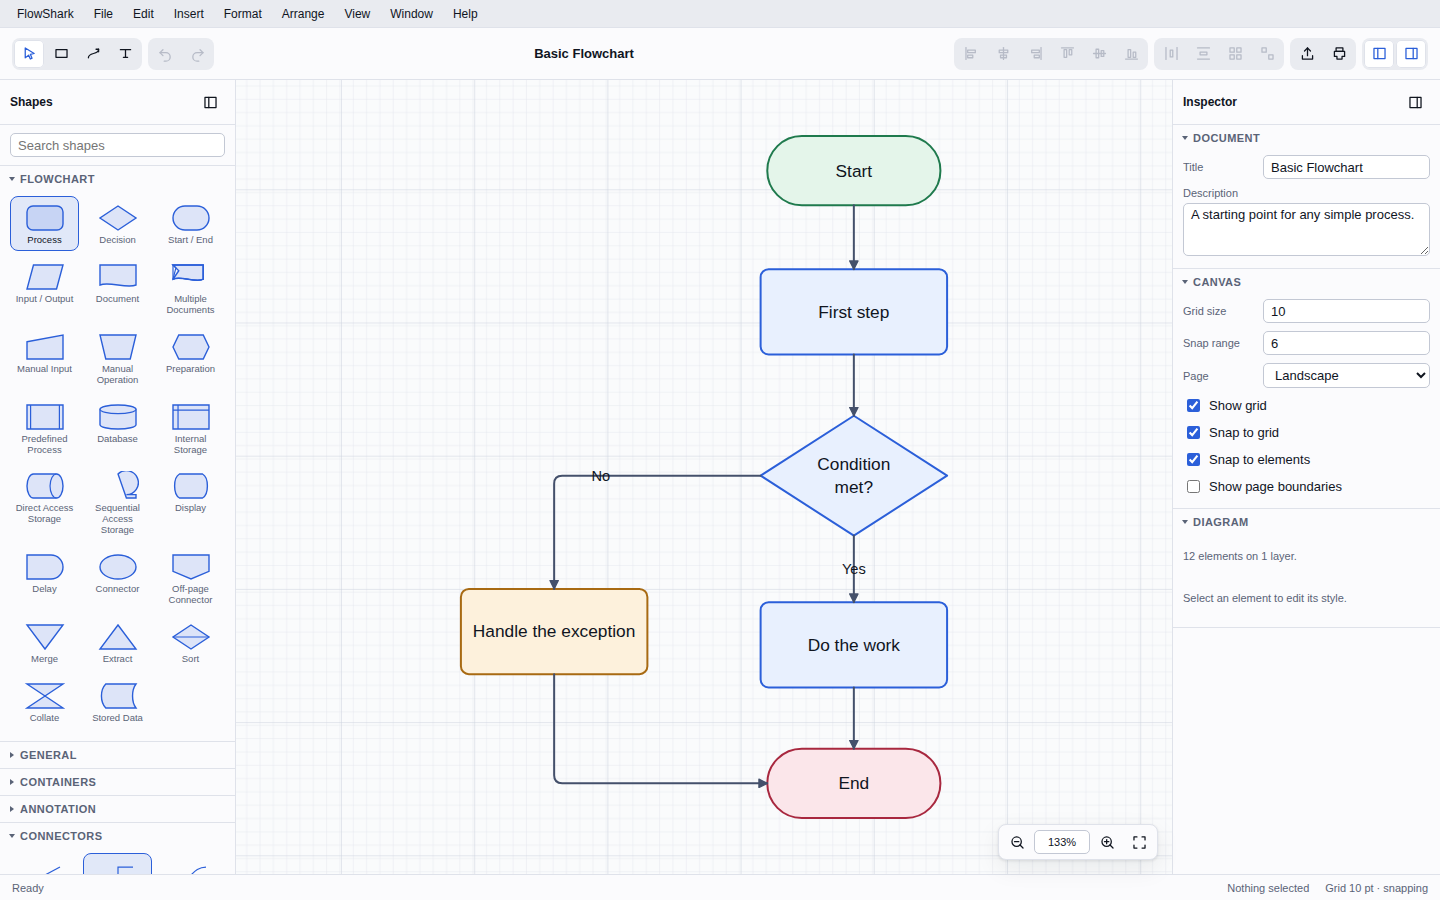
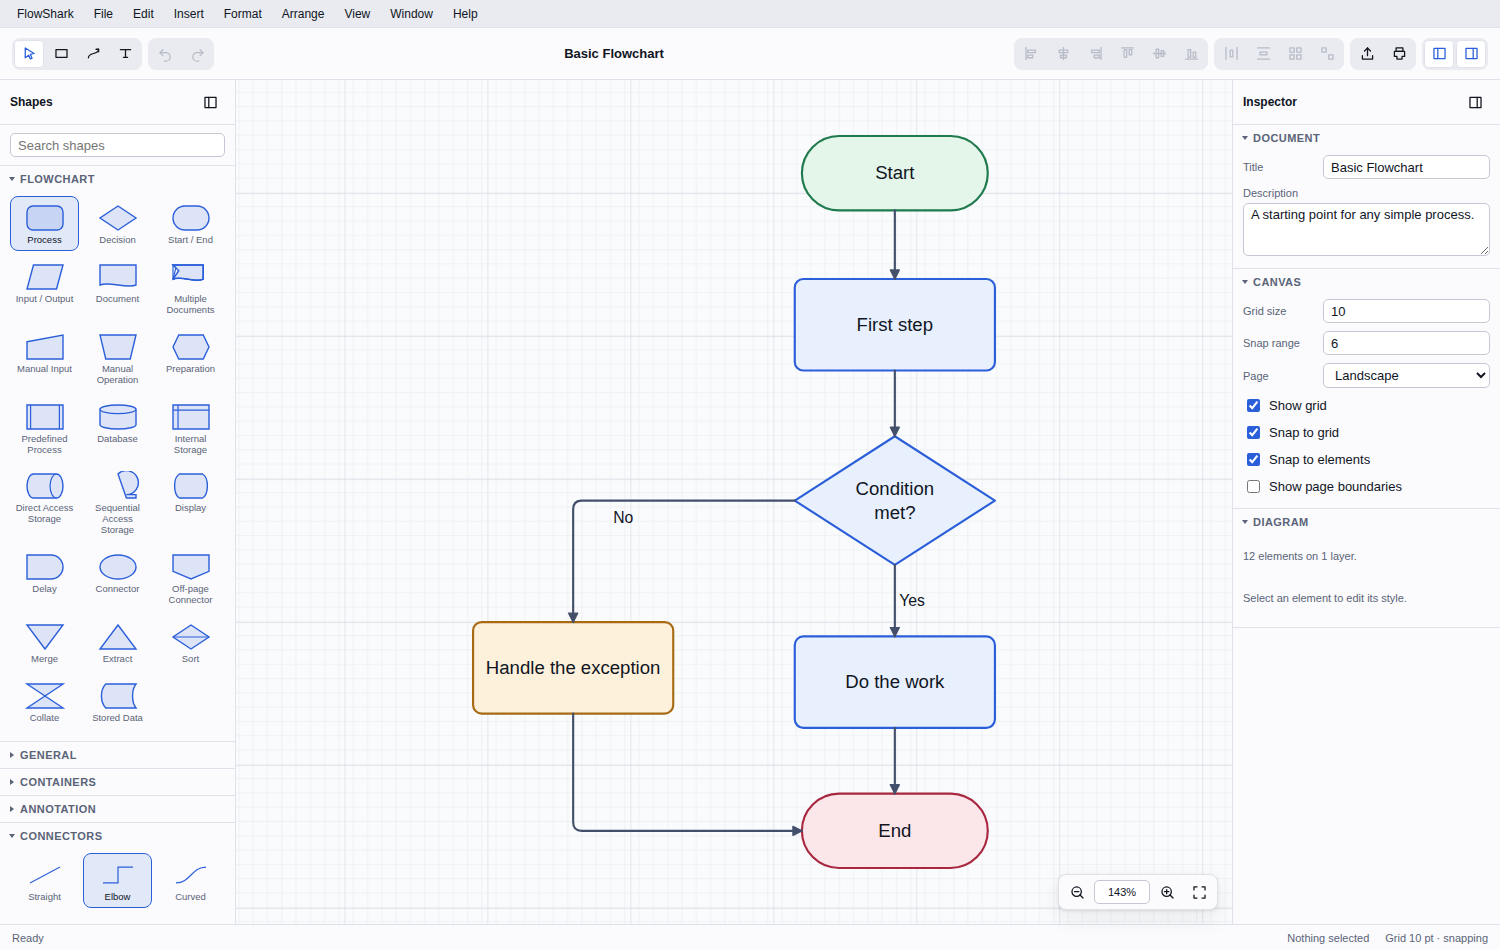
Improve label placement, selection export, and toast position
- Connector labels sit just off the line by default, the way a Yes or No
  beside a decision branch is conventionally drawn, instead of on top of it.
- Exporting a selection now includes any connector whose two ends are both
  selected, and sizes the region to fit it.
- Toasts no longer sit on top of the floating zoom controls.
- Records the fixed toolbar as a deliberate gap.

Claude-Session: https://claude.ai/code/session_01MKjp5WRWeMds73AAPFcLae

diff --git a/tests/export.test.ts b/tests/export.test.ts
@@ -1,7 +1,12 @@
 import { describe, expect, it } from 'vitest';
 import { getTemplate } from '../src/templates';
 import { buildStandaloneSvg } from '../src/io/export-svg';
-import { defaultExportOptions, exportRegion } from '../src/io/export';
+import {
+  defaultExportOptions,
+  expandExportSelection,
+  exportRegion,
+} from '../src/io/export';
+import { boundsOf } from '../src/model/document';
 import { exportVectorPdf } from '../src/io/export-pdf';
 import { isWinAnsiSafe, pdfColor, pdfString } from '../src/io/pdf-writer';
 import { parsePath } from '../src/io/svg-path';
@@ -51,6 +56,37 @@ describe('SVG export', () => {
       [one],
     ).svg;
     expect(some.length).toBeLessThan(all.length);
+  });
+
+  it('keeps the connector between two selected shapes', () => {
+    const doc = getTemplate('basic-flowchart')!.build();
+    const connector = Object.values(doc.elements).find(
+      (element) => element.kind === 'connector',
+    );
+    if (!connector || connector.kind !== 'connector') throw new Error('no connector');
+    const shapes = [connector.source.elementId!, connector.target.elementId!];
+
+    const expanded = expandExportSelection(doc, shapes);
+    expect(expanded.has(connector.id)).toBe(true);
+
+    // The region has to grow to hold the connector, not just the two shapes.
+    const withConnector = exportRegion(
+      doc,
+      { ...defaultExportOptions(), scope: 'selection' },
+      shapes,
+    );
+    const shapesOnly = boundsOf(doc, shapes)!;
+    expect(withConnector.height).toBeGreaterThanOrEqual(shapesOnly.height);
+  });
+
+  it('excludes a connector when only one of its ends is selected', () => {
+    const doc = getTemplate('basic-flowchart')!.build();
+    const connector = Object.values(doc.elements).find(
+      (element) => element.kind === 'connector',
+    );
+    if (!connector || connector.kind !== 'connector') throw new Error('no connector');
+    const expanded = expandExportSelection(doc, [connector.source.elementId!]);
+    expect(expanded.has(connector.id)).toBe(false);
   });
 
   it('escapes user text so it cannot inject markup', () => {

diff --git a/src/io/export.ts b/src/io/export.ts
@@ -8,6 +8,7 @@
 import type { Rect } from '../model/geometry';
 import { inflateRect, unionRects } from '../model/geometry';
 import { boundsOf, documentBounds, rootOf } from '../model/document';
+import { isConnector } from '../model/types';
 import type { ElementId, FlowsharkDocument } from '../model/types';
 
 export type ExportScope = 'document' | 'selection' | 'page';
@@ -37,6 +38,34 @@ export function defaultExportOptions(): ExportOptions {
   };
 }
 
+/**
+ * Everything an export of `selection` should contain: the selected elements,
+ * the contents of any selected group, and any connector whose two ends are
+ * both in the set — exporting two connected shapes without the arrow between
+ * them is never what the user meant.
+ */
+export function expandExportSelection(
+  doc: FlowsharkDocument,
+  selection: readonly ElementId[],
+): Set<ElementId> {
+  const out = new Set<ElementId>();
+  const stack = selection.map((id) => rootOf(doc, id));
+  while (stack.length > 0) {
+    const id = stack.pop()!;
+    const element = doc.elements[id];
+    if (!element || out.has(id)) continue;
+    out.add(id);
+    if (element.kind === 'group') stack.push(...element.children);
+  }
+  for (const element of Object.values(doc.elements)) {
+    if (!isConnector(element) || out.has(element.id)) continue;
+    const source = element.source.elementId;
+    const target = element.target.elementId;
+    if (source && target && out.has(source) && out.has(target)) out.add(element.id);
+  }
+  return out;
+}
+
 /** The region an export covers, already including the margin. */
 export function exportRegion(
   doc: FlowsharkDocument,
@@ -52,7 +81,7 @@ export function exportRegion(
 
   let bounds: Rect | null;
   if (options.scope === 'selection' && selection.length > 0) {
-    bounds = boundsOf(doc, [...new Set(selection.map((id) => rootOf(doc, id)))]);
+    bounds = boundsOf(doc, [...expandExportSelection(doc, selection)]);
   } else {
     bounds = documentBounds(doc);
   }

diff --git a/src/io/export-pdf.ts b/src/io/export-pdf.ts
@@ -28,7 +28,7 @@ import {
 import { pointAlongPolyline, tangentAlongPolyline } from '../model/geometry';
 import { parsePath, transformSegments, type PathSegment } from './svg-path';
 import { PdfWriter, fmt, isWinAnsiSafe, pdfColor, pdfString } from './pdf-writer';
-import { exportRegion, type ExportOptions } from './export';
+import { expandExportSelection, exportRegion, type ExportOptions } from './export';
 import { buildStandaloneSvg } from './export-svg';
 import { svgToCanvas } from './export-raster';
 
@@ -427,22 +427,6 @@ function drawConnector(
 // Entry points
 // ---------------------------------------------------------------------------
 
-function collectSelection(
-  doc: FlowsharkDocument,
-  selection: readonly ElementId[],
-): Set<ElementId> {
-  const out = new Set<ElementId>();
-  const stack = [...selection];
-  while (stack.length > 0) {
-    const id = stack.pop()!;
-    const element = doc.elements[id];
-    if (!element) continue;
-    out.add(id);
-    if (element.kind === 'group') stack.push(...element.children);
-  }
-  return out;
-}
-
 function inspectDocument(
   doc: FlowsharkDocument,
   only: Set<ElementId> | undefined,
@@ -480,7 +464,7 @@ function buildVectorPdf(
   const region = exportRegion(doc, options, selection);
   const only =
     options.scope === 'selection' && selection.length > 0
-      ? collectSelection(doc, selection)
+      ? expandExportSelection(doc, selection)
       : undefined;
 
   const content = new ContentStream();
@@ -634,7 +618,7 @@ export async function exportPdf(
 ): Promise<PdfResult> {
   const only =
     options.scope === 'selection' && selection.length > 0
-      ? collectSelection(doc, selection)
+      ? expandExportSelection(doc, selection)
       : undefined;
   const inspection = inspectDocument(doc, only);
 

diff --git a/src/io/export-svg.ts b/src/io/export-svg.ts
@@ -10,7 +10,7 @@ import type { Rect } from '../model/geometry';
 import { round } from '../model/geometry';
 import type { ElementId, FlowsharkDocument } from '../model/types';
 import { buildScene, escapeXml, type SceneTheme } from '../canvas/scene';
-import { exportRegion, type ExportOptions } from './export';
+import { expandExportSelection, exportRegion, type ExportOptions } from './export';
 
 const EXPORT_THEME: SceneTheme = {
   background: null,
@@ -32,7 +32,7 @@ export function buildStandaloneSvg(
   const region = exportRegion(doc, options, selection);
   const only =
     options.scope === 'selection' && selection.length > 0
-      ? new Set<ElementId>(collectSelection(doc, selection))
+      ? expandExportSelection(doc, selection)
       : undefined;
 
   const scene = buildScene(doc, {
@@ -69,21 +69,4 @@ export function buildStandaloneSvg(
     `<defs>${scene.defs}</defs>${background}${scene.body}</svg>\n`;
 
   return { svg, region };
-}
-
-/** Selection plus the descendants of any selected group. */
-function collectSelection(
-  doc: FlowsharkDocument,
-  selection: readonly ElementId[],
-): ElementId[] {
-  const out = new Set<ElementId>();
-  const stack = [...selection];
-  while (stack.length > 0) {
-    const id = stack.pop()!;
-    const element = doc.elements[id];
-    if (!element) continue;
-    out.add(id);
-    if (element.kind === 'group') stack.push(...element.children);
-  }
-  return [...out];
 }

diff --git a/src/model/defaults.ts b/src/model/defaults.ts
@@ -99,6 +99,13 @@ export function defaultConnectorStyle(): ConnectorStyle {
   };
 }
 
+/**
+ * Connector labels sit just off the line rather than on top of it, which is
+ * how a "Yes" or "No" beside a decision branch is conventionally drawn and
+ * what keeps the text readable over the grid.
+ */
+export const DEFAULT_LABEL_OFFSET = -12;
+
 export function defaultLabelTextStyle(): TextStyle {
   return {
     ...defaultTextStyle(),
@@ -282,7 +289,7 @@ export function createConnectorElement(
       text: options.label,
       style: defaultLabelTextStyle(),
       position: 0.5,
-      offset: 0,
+      offset: DEFAULT_LABEL_OFFSET,
       background: null,
       border: null,
     });

diff --git a/src/commands/actions.ts b/src/commands/actions.ts
@@ -11,6 +11,7 @@ import type { Point, Rect } from '../model/geometry';
 import { rectCenter, unionRects } from '../model/geometry';
 import { createId } from '../model/ids';
 import {
+  DEFAULT_LABEL_OFFSET,
   createConnectorElement,
   createShapeElement,
   defaultLabelTextStyle,
@@ -706,7 +707,7 @@ export function addConnectorLabel(store: Store, connectorId: ElementId): string 
           text: 'Label',
           style: defaultLabelTextStyle(),
           position: 0.5,
-          offset: 0,
+          offset: DEFAULT_LABEL_OFFSET,
           background: null,
           border: null,
         },

diff --git a/src/styles/canvas.css b/src/styles/canvas.css
@@ -231,7 +231,8 @@
 .toast-layer {
   position: fixed;
   right: 16px;
-  bottom: 44px;
+  /* Clear of the floating zoom controls in the same corner. */
+  bottom: 76px;
   z-index: 500;
   display: flex;
   flex-direction: column;

diff --git a/DECISIONS.md b/DECISIONS.md
@@ -36,6 +36,7 @@ including the ones that cost something — and **what would reverse it**.
   · [D-010](#d-010-no-svg-import-yet)
   · [D-012](#d-012-layers-in-the-model-no-layers-panel)
   · [D-013](#d-013-no-updater-yet)
+  · [D-025](#d-025-a-fixed-toolbar)
 - [Other](#other)
   — [D-011](#d-011-a-colour-blind-safe-default-palette)
   · [D-018](#d-018-keep-the-name-flowshark)
@@ -538,6 +539,26 @@ launch.
 install. `tauri-plugin-updater` is then the least work: add the plugin,
 generate a key pair, publish `latest.json` alongside each release, and keep the
 private key in the same secret store as the signing certificate.
+
+### D-025: A fixed toolbar
+
+**Context.** The brief asks for an `NSToolbar` equivalent that the user can
+customise (§8.13).
+
+**Decision.** Ship a fixed toolbar carrying the default item set the brief
+lists — tools, undo and redo, align, distribute, group, ungroup, export,
+print, and the two panel toggles — with no customisation sheet.
+
+**Reasoning.** Customisation is only worth having once there are more items
+than fit, and it needs a persisted per-user arrangement, a drag-and-drop
+configuration sheet, and a migration path for when the default set changes.
+The rule that matters more is already kept: everything in the toolbar is also
+in the menu bar, so nothing is lost by the toolbar not showing it.
+
+**What would reverse it.** The toolbar growing past what fits at a common
+window width. Every item is already a registered command with an icon and a
+title, so a customisation sheet would be presentation work rather than
+plumbing.
 
 ---
 

diff --git a/CHANGELOG.md b/CHANGELOG.md
@@ -107,7 +107,9 @@ These are known and deliberate, not defects. Each is explained in
   is no layers panel and every new element goes on one layer (D-012).
 - Text is styled per element rather than per character, and there are no bullet
   or numbered lists (D-007).
-- No minimap.
+- The toolbar has a fixed set of items and cannot be customised the way an
+  `NSToolbar` can (D-025).
+- No minimap or page overview.
 - No built-in update mechanism (D-013).
 - Right-to-left text is not specifically handled.
 

diff --git a/README.md b/README.md
@@ -7,9 +7,15 @@ would put in front of a client.
 ![FlowShark editing a basic flowchart](docs/screenshot-light.png)
 
 <details>
-<summary>The same window in dark appearance</summary>
+<summary>More screenshots</summary>
+
+The same window in dark appearance:
 
 ![FlowShark in dark appearance](docs/screenshot-dark.png)
+
+The cross-functional flowchart template, with swimlanes:
+
+![A cross-functional flowchart with three swimlanes](docs/screenshot-swimlane.png)
 
 </details>
 
